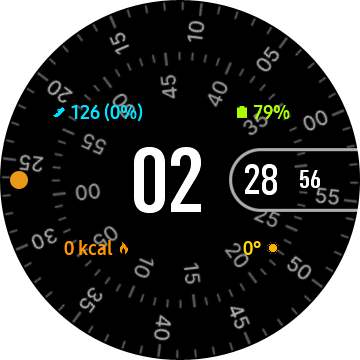
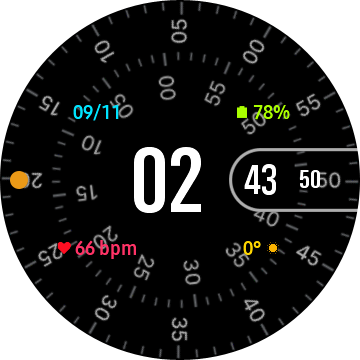
feat(concentric): Reemplazar pasos por fecha DIA/MES y calorias por sensor heart-rate con icono

diff --git a/README.md b/README.md
@@ -66,7 +66,7 @@ Diseño ultralimpio sobre fondo negro puro AMOLED (`#000000`) con píxeles físi
   - Anillo exterior de segundos con barrido fluido continuo a 60 fps (`second.millisecond`).
   - Anillo interior de minutos con rotación suave.
   - Cápsula central con hora digital en gran tamaño (92 px).
-  - 4 complicaciones limpias sin barras perimetrales intrusivas: batería con porcentaje explícito (`XX%`), pasos con número exacto y porcentaje (`XXXX (XX%)`), calorías activas en kcal y clima.
+  - 4 complicaciones limpias y simétricas sin barras perimetrales intrusivas: fecha actual en formato "DIA/MES" (`dd/MM`, ej. `09/11`), batería con porcentaje explícito (`XX%`) en Verde Lima de alta visibilidad, frecuencia cardíaca en tiempo real (`XX bpm`) con ícono de corazón, y clima con temperatura actual.
 - **AOD (Always-On Display):** Modo minimalista con únicamente los números centrales de la hora y minutos (sin ruedas ni cápsula).
 
 ---
